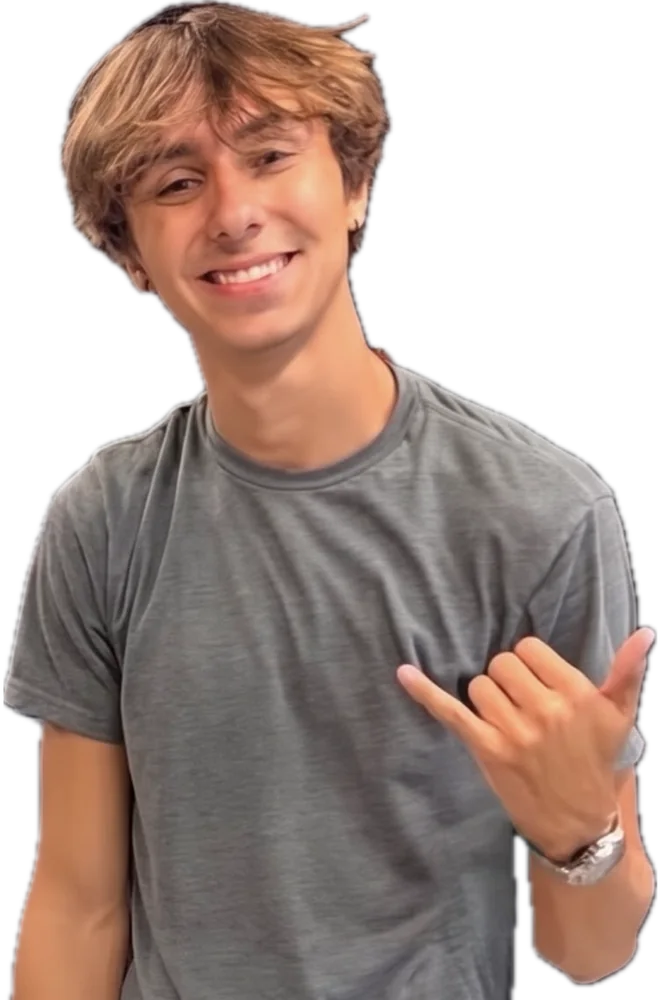
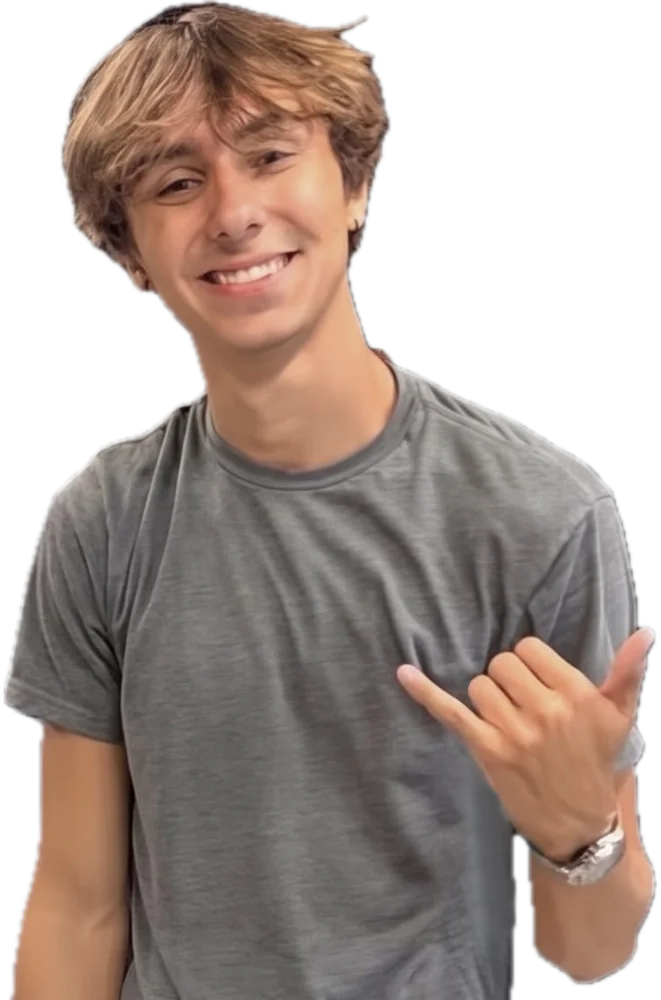
New portrait, about and drum caption tweaks, hand page link fixes

diff --git a/index.html b/index.html
@@ -77,7 +77,7 @@
                  aria-label="Left: a phone app tracking my hand through its camera. Right: the robotic hand copying the same pose.">
             <source src="assets/video/hand-hero.mp4" type="video/mp4">
           </video>
-          <figcaption><a href="https://github.com/JoeTouchman/JoebotHand" target="_blank" rel="noopener">See the project <span aria-hidden="true">↗</span></a></figcaption>
+          <figcaption><a href="hand.html">See the project <span aria-hidden="true">→</span></a></figcaption>
         </figure>
       </div>
 
@@ -176,9 +176,9 @@
 
           <div>
             <div class="toolbox">
-              <div><h4>Software</h4><ul class="chips"><li>Kotlin</li><li>Jetpack Compose</li><li>Python</li><li>JavaScript</li><li>C++ (Arduino)</li><li>Git</li></ul></div>
+              <div><h4>Software</h4><ul class="chips"><li>Kotlin</li><li>Jetpack Compose</li><li>Python</li><li>JavaScript</li><li>C++</li><li>Git</li></ul></div>
               <div><h4>Hardware</h4><ul class="chips"><li>ESP32</li><li>Arduino</li><li>Servos</li><li>Soldering</li><li>Wiring</li><li>Pneumatics</li></ul></div>
-              <div><h4>Design</h4><ul class="chips"><li>Onshape</li><li>3D printing</li><li>Blender</li><li>Visual effects</li></ul></div>
+              <div><h4>Design</h4><ul class="chips"><li>Onshape</li><li>3D printing</li><li>Blender</li><li>Visual effects</li><li>Video editing</li><li>Photo editing</li></ul></div>
             </div>
             <div class="offclock">
               <figure class="frame">
@@ -194,7 +194,7 @@
                     <svg class="i-play" viewBox="0 0 24 24" aria-hidden="true"><path d="M8 5v14l11-7z"/></svg>
                     <svg class="i-pause" viewBox="0 0 24 24" aria-hidden="true"><path d="M6 5h4v14H6zm8 0h4v14h-4z"/></svg>
                   </button>
-                  <span class="player__label"><b>Drums</b><small>"Toxicity" cover, my kit</small></span>
+                  <span class="player__label"><b>Drums</b><small>"Toxicity" cover, original by System of a Down</small></span>
                   <span class="eq" aria-hidden="true"><i></i><i></i><i></i><i></i></span>
                 </figcaption>
               </figure>

diff --git a/hand.html b/hand.html
@@ -122,7 +122,7 @@
         <div class="split split--wide" style="align-items:start">
           <figure class="frame schematic">
             <img src="assets/img/hand-wiring.svg" loading="lazy" width="875" height="532" alt="Wiring schematic: a 5 V 5 A adapter feeds +5 V through the power switch, with a 1000 microfarad capacitor across the supply. The ESP32-S3 drives five MG90S servos from GPIO 4, 5, 6, 7 and 15, switches the button's LED ring from GPIO 16 through a 330 ohm resistor and an S8050 transistor, and drives a buzzer from GPIO 17.">
-            <figcaption>My wiring schematic. <a href="https://github.com/JoeTouchman/JoebotHand/blob/main/docs/wiring.svg" target="_blank" rel="noopener">Full size on GitHub</a></figcaption>
+            <figcaption>My wiring schematic</figcaption>
           </figure>
           <div>
             <p>The electronics are my own design. The tutorial's hand runs on an Arduino with flex sensors. I replaced all of that with an ESP32-S3, planned the circuit, and did all the wiring and soldering myself.</p>

diff --git a/css/style.css b/css/style.css
@@ -300,7 +300,9 @@ blockquote cite { display: block; margin-top: .5em; font: 500 .7rem var(--mono);
 .creditbox h4 { color: var(--text); }
 .creditbox > div:last-child h4 { color: var(--accent); }
 .creditbox p { color: var(--soft); margin: 0; }
-.creditbox a { color: var(--text); text-decoration-color: var(--accent); text-underline-offset: 3px; }
+.creditbox a { color: var(--accent); font-weight: 600; text-decoration: none; white-space: nowrap; }
+.creditbox a::after { content: " ↗"; }
+.creditbox a:hover { text-decoration: underline; text-underline-offset: 3px; }
 .results { display: flex; flex-wrap: wrap; gap: 8px; margin-top: 1em; }
 
 /* pipeline diagram */
